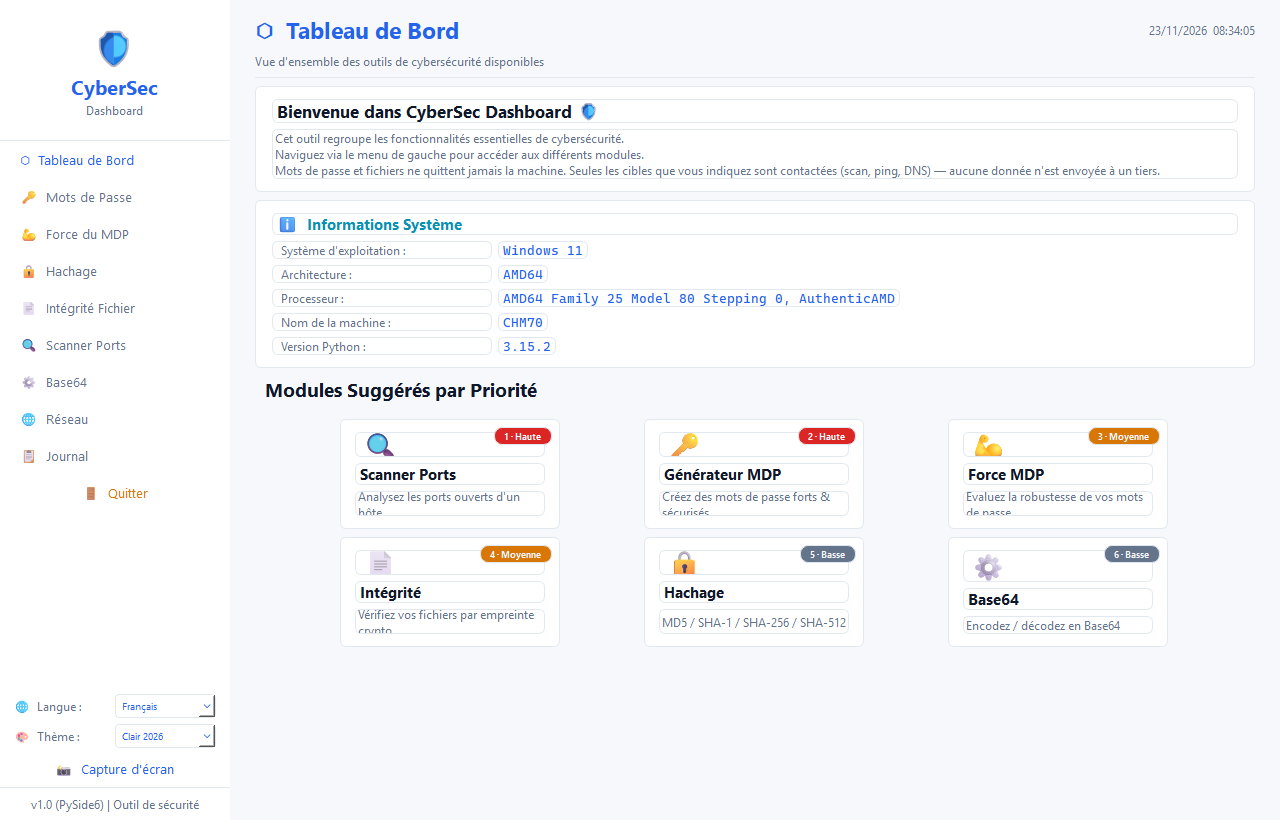
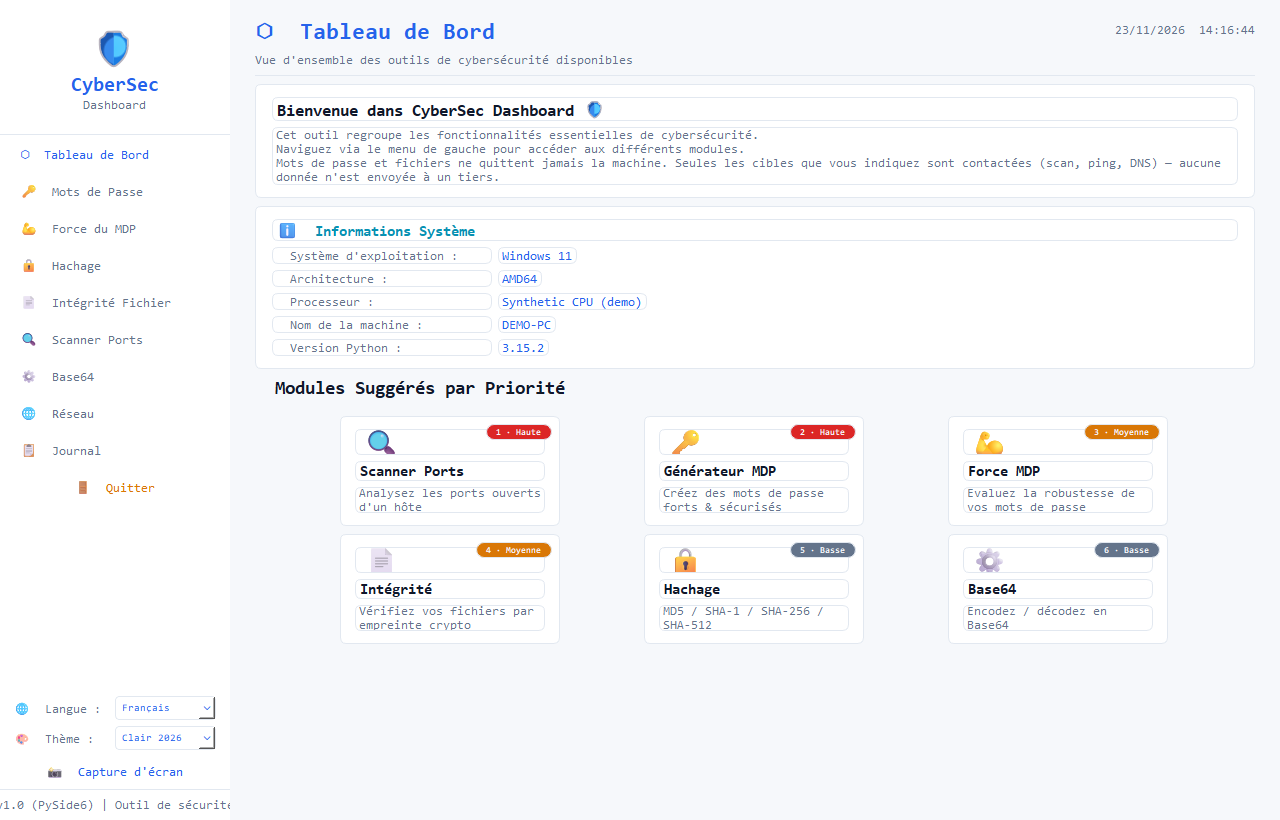
privacy(screenshots): anonymiser machine/CPU et régénérer les captures

diff --git a/tools/screenshots.py b/tools/screenshots.py
@@ -6,6 +6,10 @@ y compris en CI, mais les emoji y sont rendus en monochrome.
 Avec ``--native``, la plateforme graphique du système est utilisée afin
 d'obtenir les emoji en couleur. Un affichage est alors nécessaire.
 
+Les identifiants de la machine (nom d'hôte, processeur) sont remplacés par
+des valeurs factices : les captures peuvent donc être publiées sans exposer
+d'informations personnelles. ``--real-data`` désactive cette anonymisation.
+
 Exemples :
     python tools/screenshots.py
     python tools/screenshots.py --native
@@ -15,7 +19,10 @@ Exemples :
 
 import argparse
 import os
+import platform
+import socket
 import sys
+from contextlib import contextmanager, nullcontext
 from pathlib import Path
 
 ROOT = Path(__file__).resolve().parents[1]
@@ -24,6 +31,9 @@ if str(ROOT) not in sys.path:
 
 LANGUAGES = ("fr", "en", "ar")
 THEMES = ("dark", "light")
+DEMO_NODE = "DEMO-PC"
+DEMO_PROCESSOR = "Synthetic CPU (demo)"
+DEMO_HOSTNAME = "demo.local"
 PAGES = (
     "dashboard", "passwords", "strength", "hashing", "files",
     "scanner", "base64", "network", "logs",
@@ -49,7 +59,29 @@ def parse_args(argv=None):
         "--native", action="store_true",
         help="Utiliser la plateforme graphique système (emoji en couleur).",
     )
+    parser.add_argument(
+        "--real-data", action="store_true",
+        help="Afficher les vrais identifiants machine (déconseillé pour la doc).",
+    )
     return parser.parse_args(argv)
+
+
+@contextmanager
+def anonymized_system_info():
+    """Remplace temporairement les identifiants machine par des valeurs factices."""
+    attributes = (
+        (platform, "node", lambda: DEMO_NODE),
+        (platform, "processor", lambda: DEMO_PROCESSOR),
+        (socket, "gethostname", lambda: DEMO_HOSTNAME),
+    )
+    originals = [(module, name, getattr(module, name)) for module, name, _ in attributes]
+    for module, name, fake in attributes:
+        setattr(module, name, fake)
+    try:
+        yield
+    finally:
+        for module, name, value in originals:
+            setattr(module, name, value)
 
 
 def configure_platform(native=False):
@@ -121,22 +153,24 @@ def main(argv=None):
     from PySide6.QtWidgets import QApplication
     from main import CyberSecApp
 
-    app = QApplication.instance() or QApplication([])
-    window = CyberSecApp()
-    window.resize(1280, 820)
-    window.show()
-    app.processEvents()
-    themes = THEMES if args.theme == "both" else (args.theme,)
-    try:
-        for page in pages:
-            for lang in LANGUAGES:
-                for theme in themes:
-                    capture_page(app, window, page, lang, theme, out_dir)
-    finally:
-        window._shutdown()
-        window.hide()
-        window.deleteLater()
+    context = nullcontext() if args.real_data else anonymized_system_info()
+    with context:
+        app = QApplication.instance() or QApplication([])
+        window = CyberSecApp()
+        window.resize(1280, 820)
+        window.show()
         app.processEvents()
+        themes = THEMES if args.theme == "both" else (args.theme,)
+        try:
+            for page in pages:
+                for lang in LANGUAGES:
+                    for theme in themes:
+                        capture_page(app, window, page, lang, theme, out_dir)
+        finally:
+            window._shutdown()
+            window.hide()
+            window.deleteLater()
+            app.processEvents()
 
 
 if __name__ == "__main__":

diff --git a/tests/test_screenshots.py b/tests/test_screenshots.py
@@ -1,10 +1,15 @@
 """Tests de l'outil de génération de captures hors écran."""
 
+import platform
+import socket
 from pathlib import Path
 
 import pytest
 
-from tools.screenshots import LANGUAGES, normalize_pages, parse_args
+from tools.screenshots import (
+    DEMO_HOSTNAME, DEMO_NODE, DEMO_PROCESSOR, LANGUAGES,
+    anonymized_system_info, normalize_pages, parse_args,
+)
 
 
 def test_language_order_matches_selector():
@@ -37,3 +42,19 @@ def test_parse_args_supports_native_and_custom_output():
 def test_parse_args_theme_choice():
     args = parse_args(["--theme", "light"])
     assert args.theme == "light"
+
+
+def test_parse_args_real_data_opt_out():
+    assert parse_args([]).real_data is False
+    assert parse_args(["--real-data"]).real_data is True
+
+
+def test_anonymized_system_info_hides_and_restores_identifiers():
+    original = (platform.node(), platform.processor(), socket.gethostname())
+
+    with anonymized_system_info():
+        assert platform.node() == DEMO_NODE
+        assert platform.processor() == DEMO_PROCESSOR
+        assert socket.gethostname() == DEMO_HOSTNAME
+
+    assert (platform.node(), platform.processor(), socket.gethostname()) == original

diff --git a/README.ar.md b/README.ar.md
@@ -3,7 +3,7 @@
 [![Python app](https://github.com/CHM2026/Local-Cybersec-Partner/actions/workflows/python-app.yml/badge.svg?branch=main)](https://github.com/CHM2026/Local-Cybersec-Partner/actions/workflows/python-app.yml)
 [![Python 3.15+](https://img.shields.io/badge/python-3.15%2B-blue.svg)](https://www.python.org/downloads/)
 [![PySide6](https://img.shields.io/badge/Qt-PySide6%20%E2%89%A5%206.12-green.svg)](https://pypi.org/project/PySide6/)
-[![Tests](https://img.shields.io/badge/tests-31%20passed-brightgreen.svg)](https://github.com/CHM2026/Local-Cybersec-Partner/actions/workflows/python-app.yml)
+[![Tests](https://img.shields.io/badge/tests-33%20passed-brightgreen.svg)](https://github.com/CHM2026/Local-Cybersec-Partner/actions/workflows/python-app.yml)
 
 > اللغات: [Français](README.md) · [English](README.en.md) · **العربية**
 
@@ -127,7 +127,7 @@ python tools/screenshots.py --native --theme light
 python tools/screenshots.py --pages dashboard,scanner --out docs/screenshots
 ```
 
-يُنشئ السكربت `docs/screenshots/<page>-<language>.png` للفرنسية والإنجليزية والعربية. افتراضياً يعمل في وضع `offscreen` (بدون نافذة، مثالي لـ CI)، لكن الرموز التعبيرية تظهر بالأبيض والأسود.
+يُنشئ السكربت `docs/screenshots/<page>-<language>-<theme>.png` للفرنسية والإنجليزية والعربية، بالسمة الداكنة والفاتحة. افتراضياً يعمل في وضع `offscreen` (بدون نافذة، مثالي لـ CI)، لكن الرموز التعبيرية تظهر بالأبيض والأسود.
 
 للحصول على **رموز تعبيرية ملوّنة**، أضف `--native` (يتطلب وجود شاشة):
 
@@ -136,6 +136,8 @@ python tools/screenshots.py --native
 ```
 
 الصور المعروضة أعلاه أُنشئت باستخدام `--native`. على Windows استخدم `.\.venv\Scripts\python.exe tools\screenshots.py --native` عند الحاجة.
+
+**الخصوصية:** يتم استبدال اسم الجهاز والمعالج بـ `DEMO-PC` و `Synthetic CPU (demo)`، لذا يمكن نشر اللقطات دون بيانات شخصية. الخيار `--real-data` يوقف هذا التمويه (للاستخدام المحلي فقط). تجنّب التقاط صفحة **الشبكة** عناوين IP حقيقية.
 
 ## البنية
 

diff --git a/README.md b/README.md
@@ -3,7 +3,7 @@
 [![Python app](https://github.com/CHM2026/Local-Cybersec-Partner/actions/workflows/python-app.yml/badge.svg?branch=main)](https://github.com/CHM2026/Local-Cybersec-Partner/actions/workflows/python-app.yml)
 [![Python 3.15+](https://img.shields.io/badge/python-3.15%2B-blue.svg)](https://www.python.org/downloads/)
 [![PySide6](https://img.shields.io/badge/Qt-PySide6%20%E2%89%A5%206.12-green.svg)](https://pypi.org/project/PySide6/)
-[![Tests](https://img.shields.io/badge/tests-31%20passed-brightgreen.svg)](https://github.com/CHM2026/Local-Cybersec-Partner/actions/workflows/python-app.yml)
+[![Tests](https://img.shields.io/badge/tests-33%20passed-brightgreen.svg)](https://github.com/CHM2026/Local-Cybersec-Partner/actions/workflows/python-app.yml)
 
 > Langues : **Français** · [English](README.en.md) · [العربية](README.ar.md)
 
@@ -127,7 +127,7 @@ python tools/screenshots.py --native --theme light
 python tools/screenshots.py --pages dashboard,scanner --out docs/screenshots
 ```
 
-Le script génère `docs/screenshots/<page>-<langue>.png` pour le français, l’anglais et l’arabe. Par défaut, il tourne en mode `offscreen` (aucune fenêtre, idéal en CI), mais les emoji y sont rendus en monochrome.
+Le script génère `docs/screenshots/<page>-<langue>-<theme>.png` pour le français, l’anglais et l’arabe, en sombre et en clair. Par défaut, il tourne en mode `offscreen` (aucune fenêtre, idéal en CI), mais les emoji y sont rendus en monochrome.
 
 Pour obtenir des captures avec les **emoji en couleur**, ajoutez `--native` (un affichage est nécessaire) :
 
@@ -136,6 +136,8 @@ python tools/screenshots.py --native
 ```
 
 Les images présentées ci-dessus ont été générées avec `--native`. Sur Windows, utilisez `.\.venv\Scripts\python.exe tools\screenshots.py --native` si nécessaire.
+
+**Confidentialité :** le nom de la machine et le processeur sont remplacés par `DEMO-PC` et `Synthetic CPU (demo)` : les captures sont publiables sans données personnelles. L’option `--real-data` désactive cette anonymisation (à réserver à un usage local). Évitez aussi de capturer la page **Réseau** avec de vraies adresses IP.
 
 ## Structure
 

diff --git a/README.en.md b/README.en.md
@@ -3,7 +3,7 @@
 [![Python app](https://github.com/CHM2026/Local-Cybersec-Partner/actions/workflows/python-app.yml/badge.svg?branch=main)](https://github.com/CHM2026/Local-Cybersec-Partner/actions/workflows/python-app.yml)
 [![Python 3.15+](https://img.shields.io/badge/python-3.15%2B-blue.svg)](https://www.python.org/downloads/)
 [![PySide6](https://img.shields.io/badge/Qt-PySide6%20%E2%89%A5%206.12-green.svg)](https://pypi.org/project/PySide6/)
-[![Tests](https://img.shields.io/badge/tests-31%20passed-brightgreen.svg)](https://github.com/CHM2026/Local-Cybersec-Partner/actions/workflows/python-app.yml)
+[![Tests](https://img.shields.io/badge/tests-33%20passed-brightgreen.svg)](https://github.com/CHM2026/Local-Cybersec-Partner/actions/workflows/python-app.yml)
 
 > Languages: [Français](README.md) · **English** · [العربية](README.ar.md)
 
@@ -127,7 +127,7 @@ python tools/screenshots.py --native --theme light
 python tools/screenshots.py --pages dashboard,scanner --out docs/screenshots
 ```
 
-The script generates `docs/screenshots/<page>-<language>.png` for French, English and Arabic. By default it runs in `offscreen` mode (no window, ideal for CI), but emoji are rendered in monochrome.
+The script generates `docs/screenshots/<page>-<language>-<theme>.png` for French, English and Arabic, in both dark and light variants. By default it runs in `offscreen` mode (no window, ideal for CI), but emoji are rendered in monochrome.
 
 For **colour emoji**, add `--native` (a display is required):
 
@@ -136,6 +136,8 @@ python tools/screenshots.py --native
 ```
 
 The images shown above were generated with `--native`. On Windows, use `.\.venv\Scripts\python.exe tools\screenshots.py --native` if needed.
+
+**Privacy:** the machine name and CPU are replaced with `DEMO-PC` and `Synthetic CPU (demo)`, so the screenshots can be published without personal data. Use `--real-data` to disable this anonymisation (local use only). Avoid capturing the **Network** page with real IP addresses.
 
 ## Structure
 
